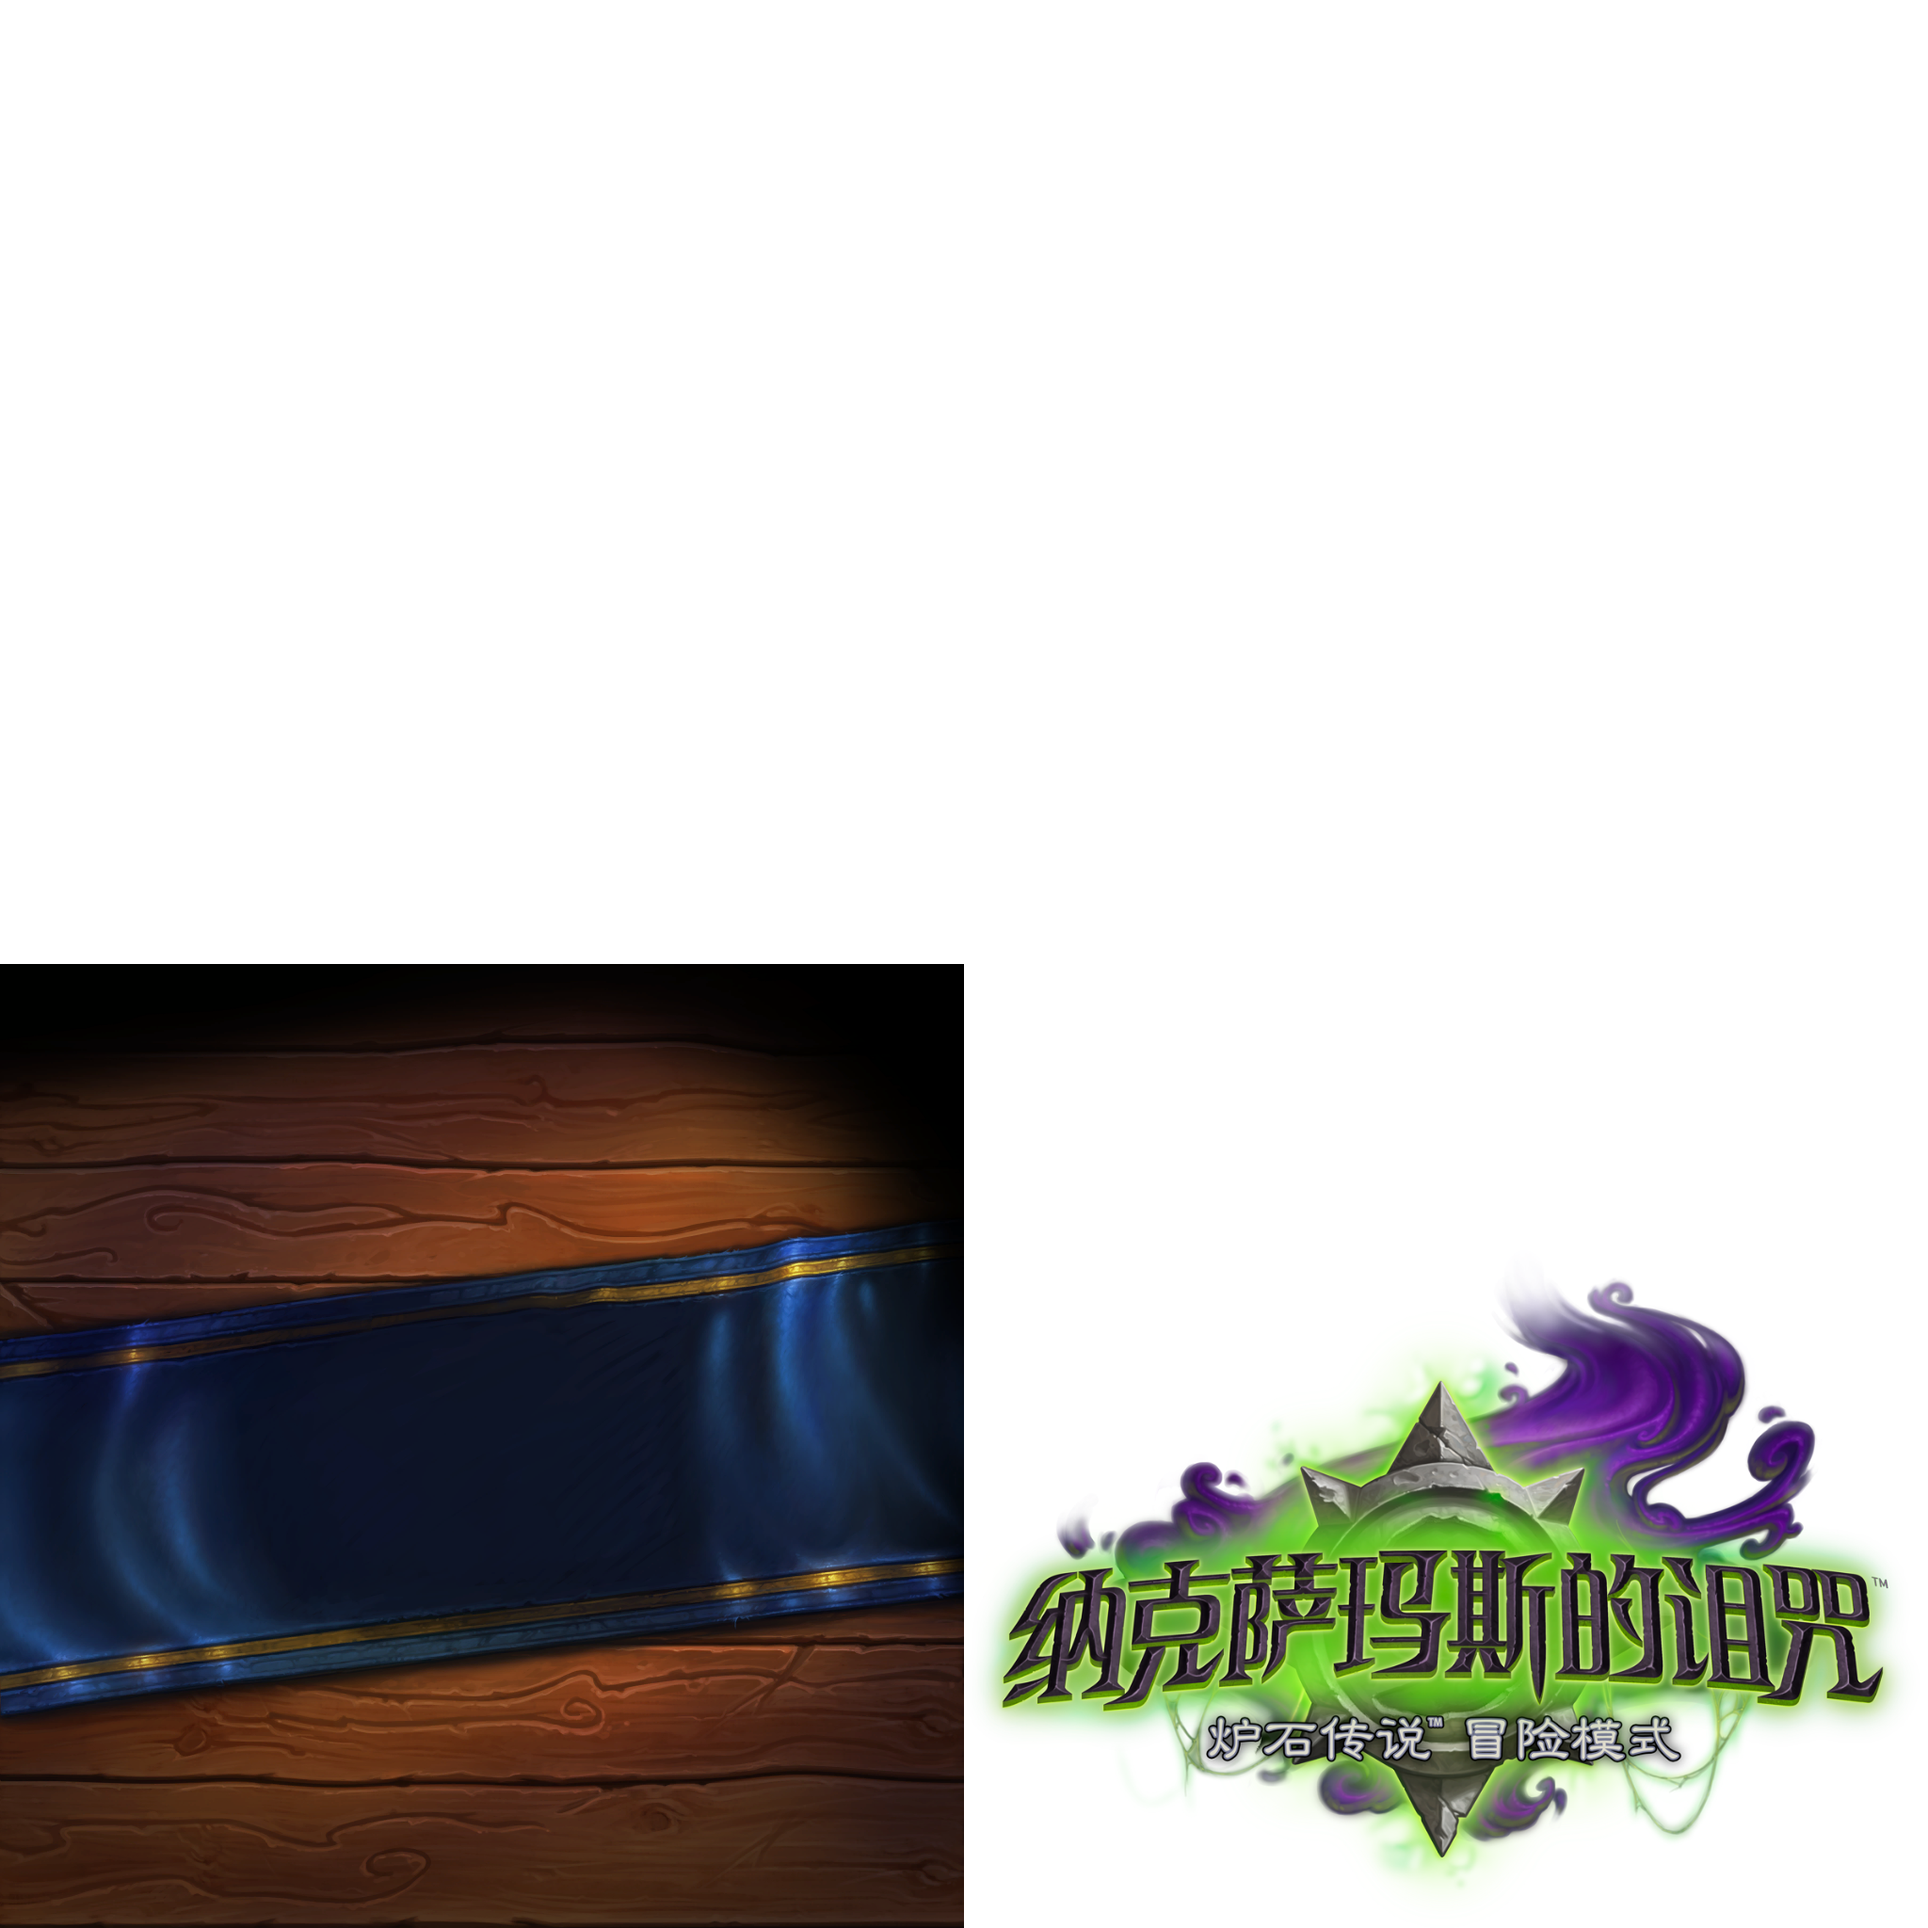
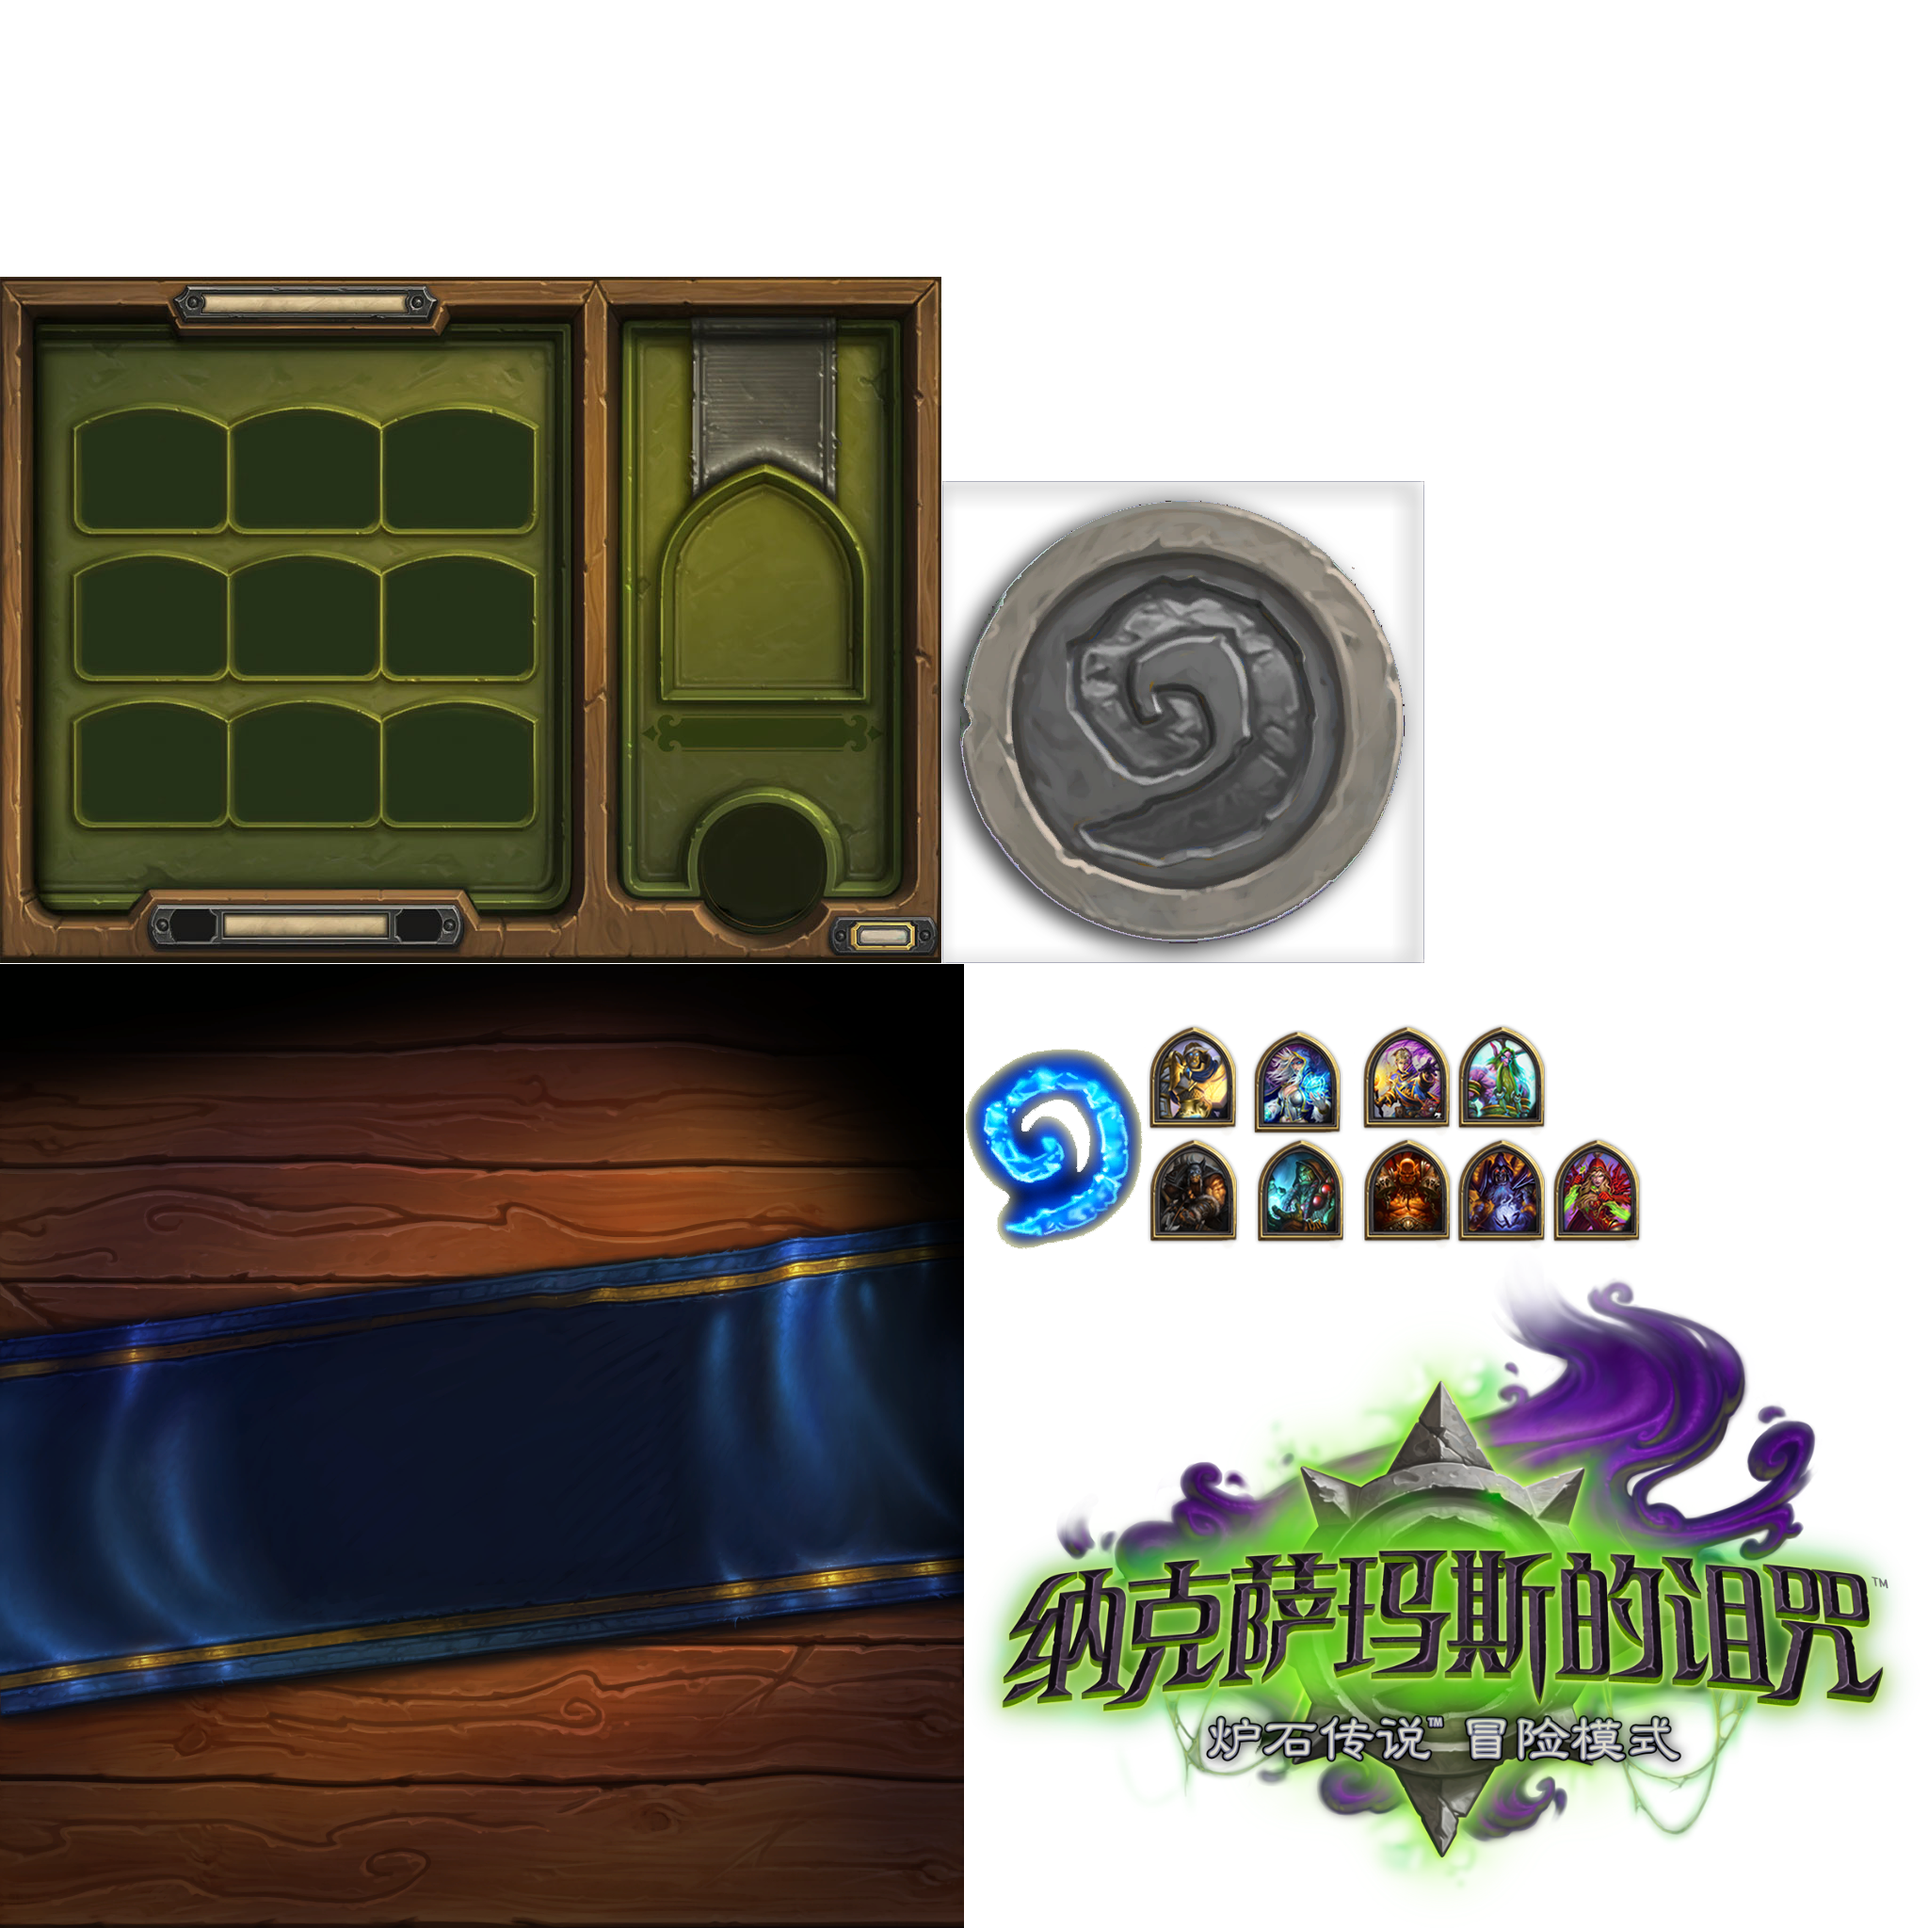
完成英雄选择界面

Changed region(s): [[0.0, 0.125, 0.75, 0.5], [0.5, 0.5312, 0.875, 0.6562]]

diff --git a/HearthStone/Assets/HeroSelect.cs b/HearthStone/Assets/HeroSelect.cs
@@ -1,0 +1,35 @@
+using UnityEngine;
+using System.Collections;
+
+public class HeroSelect : MonoBehaviour {
+
+	private UISprite selectHeroSprite;
+
+	private UILabel selectHeroName;
+
+	private string[] heroNames = {
+		"吉安娜·普罗德摩尔(法师)",
+		"雷克萨(猎人)",
+		"乌瑟尔•光明使者(圣骑士)",
+		"加尔鲁什•地狱咆哮(战士)",
+		"玛法里奥•怒风(德鲁伊)",
+		"古尔丹(术士)",
+		"萨尔(萨满祭司)",
+		"安杜因•乌瑞恩(牧师)",
+		"瓦莉拉•萨古纳尔(潜行者)"
+	};
+
+	void Awake(){
+		selectHeroSprite = this.transform.parent.Find("hero0").GetComponent<UISprite>();
+		selectHeroName = this.transform.parent.Find ("hero_name").GetComponent<UILabel> ();
+	}
+
+	void OnClick(){
+		string heroName = this.gameObject.name;
+		selectHeroSprite.spriteName = heroName;
+		char heroIndexChar = heroName[heroName.Length-1];
+		int heroIndex = heroIndexChar - '1';
+		selectHeroName.text = heroNames [heroIndex];
+
+	}
+}

diff --git a/HearthStone/Assets/Scripts/StartMenu.cs b/HearthStone/Assets/Scripts/StartMenu.cs
@@ -36,7 +36,7 @@ public class StartMenu : MonoBehaviour {
 		if (isDrawMov) {
 			GUI.DrawTexture (new Rect (0, 0, Screen.width, Screen.height), movTexture);
 			if(isShowMessage){
-				GUI.Label(new Rect(Screen.width/2 - 100,Screen.height/2,200,40),"Click again to stop play mov");
+				GUI.Label(new Rect(Screen.width/2 - 70,Screen.height/2,200,40),"Click again to stop play mov");
 			}
 		}
 	}
